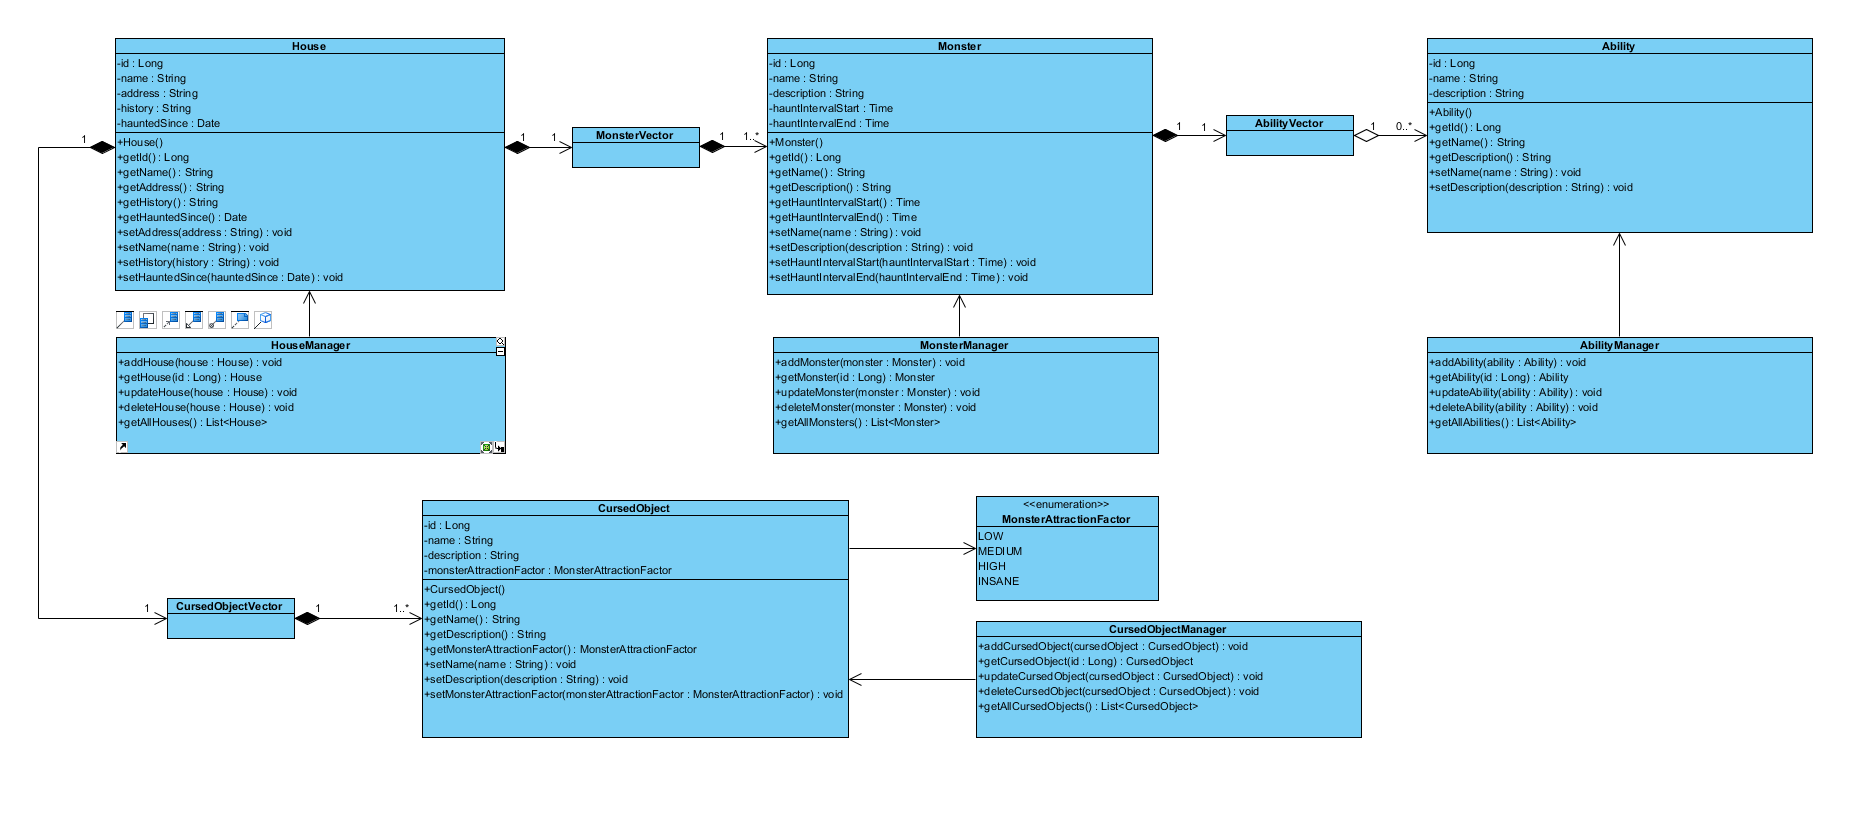
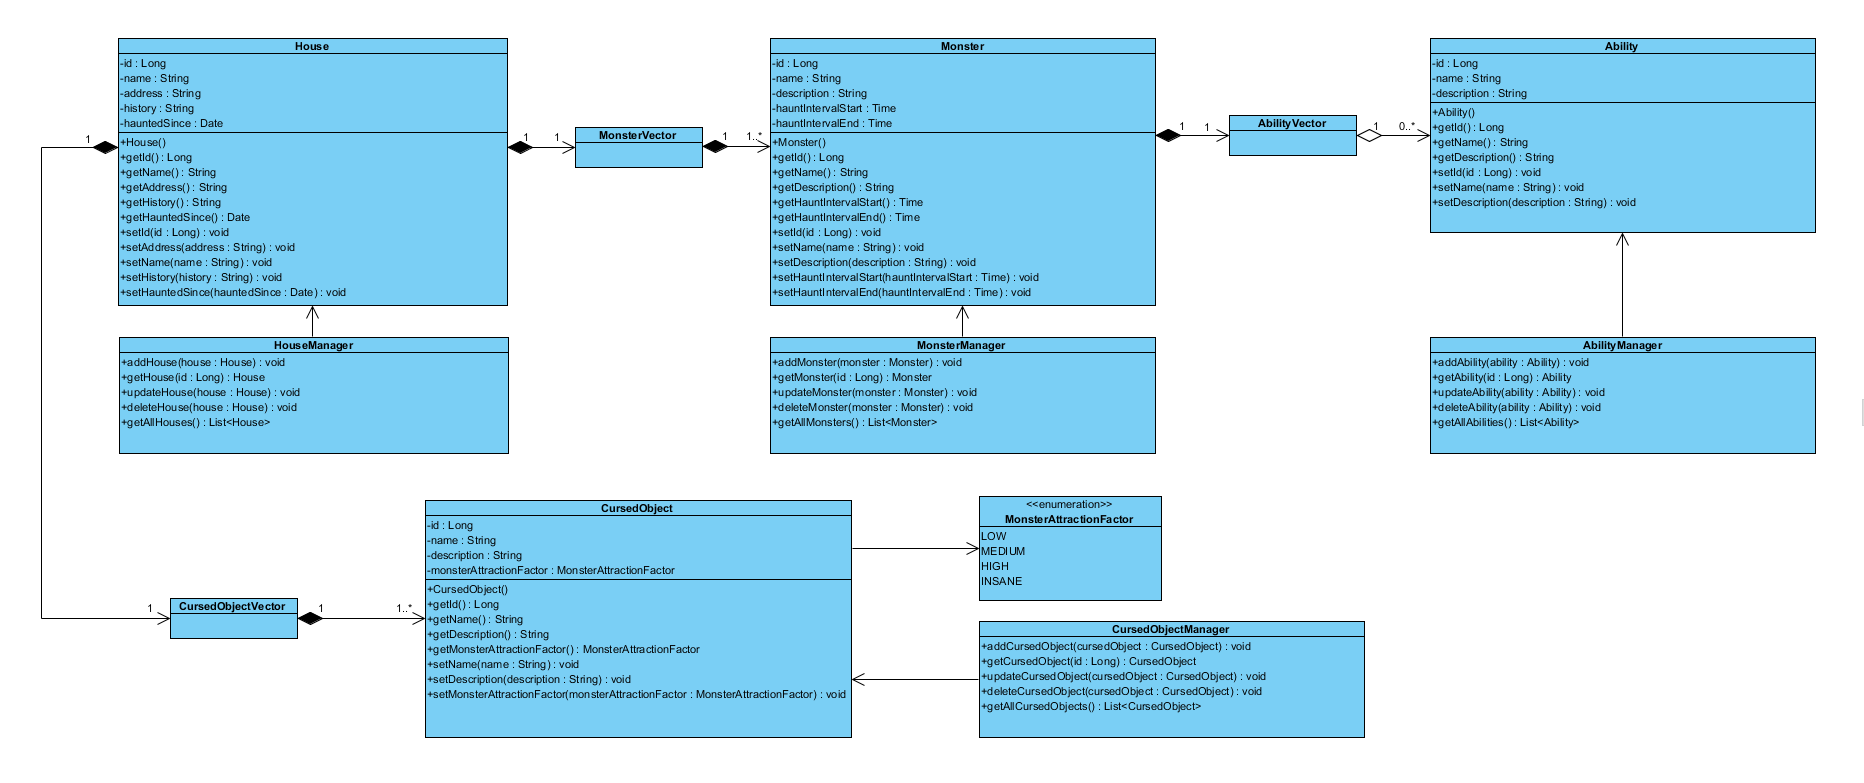
* Added use case diagram * Updated class diagram * Updated hashCode() in CursedObject entity to not use id

diff --git a/src/main/java/cz/muni/fi/pa165/hauntedhouses/entity/CursedObject.java b/src/main/java/cz/muni/fi/pa165/hauntedhouses/entity/CursedObject.java
@@ -1,7 +1,6 @@
 package cz.muni.fi.pa165.hauntedhouses.entity;
 
 import cz.muni.fi.pa165.hauntedhouses.enums.MonsterAttractionFactor;
-import java.util.Objects;
 import javax.persistence.Entity;
 import javax.persistence.Enumerated;
 import javax.persistence.GeneratedValue;
@@ -82,7 +81,7 @@ public class CursedObject {
     @Override
     public int hashCode() {
         int hash = 3;
-        hash = 53 * hash + Objects.hashCode(this.id);
+        hash = 53 * hash + ((name == null) ? 0 : name.hashCode());
         return hash;
     }
 }

diff --git a/src/test/java/cz/muni/fi/pa165/hauntedhouses/dao/AbilityDaoTest.java b/src/test/java/cz/muni/fi/pa165/hauntedhouses/dao/AbilityDaoTest.java
@@ -27,7 +27,7 @@ public class AbilityDaoTest {
     }
     
     @Test(expected = IllegalArgumentException.class)
-    public void testAddNullAbility() {
+    public void testCreateNullAbility() {
         abilityDao.create(null);
     }
 }
